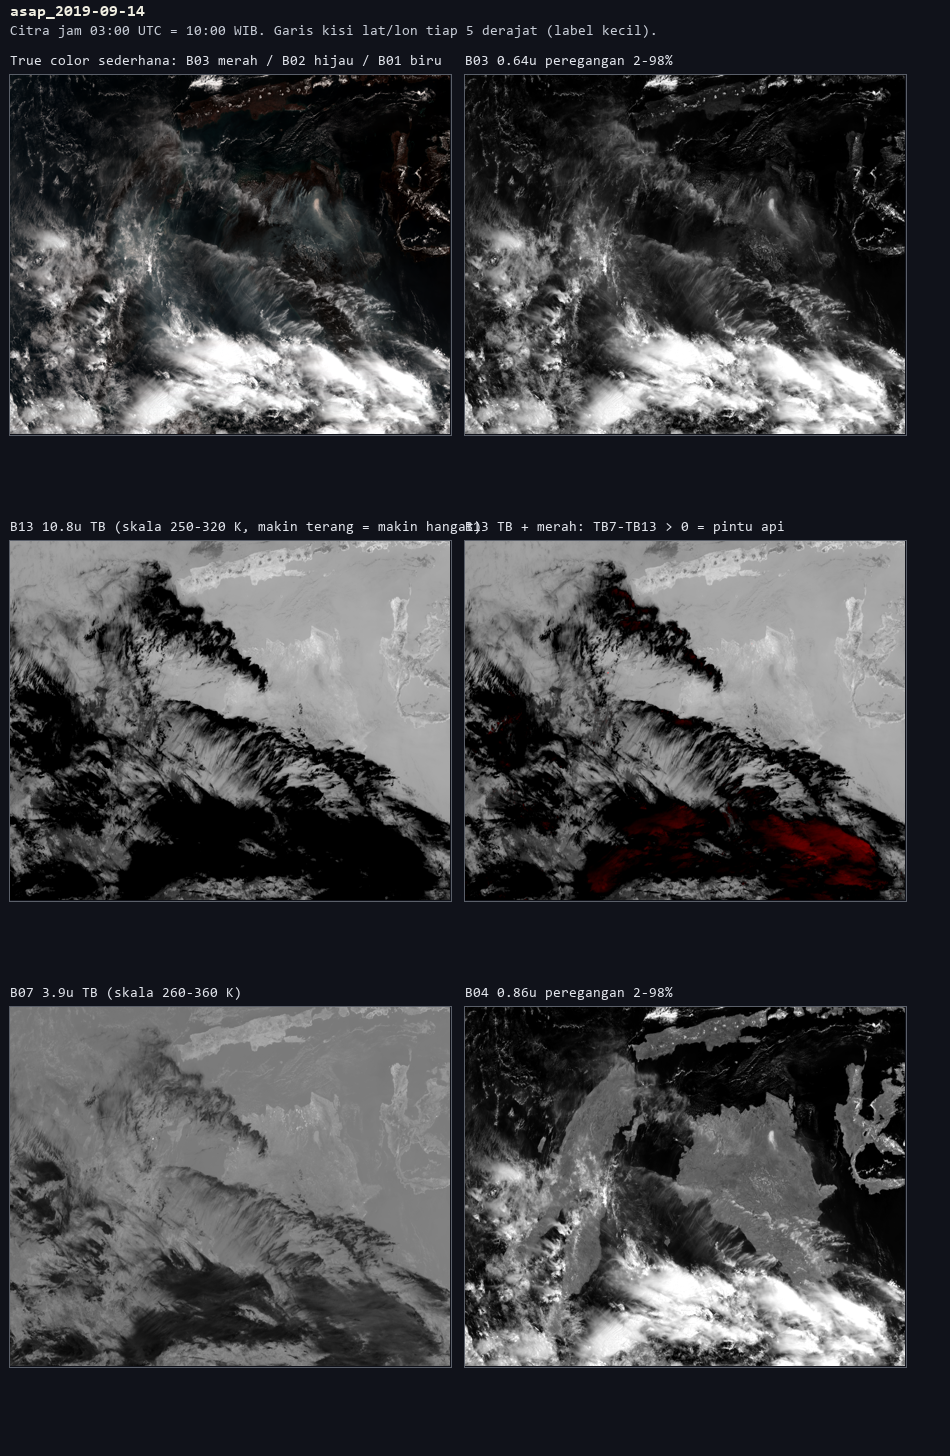
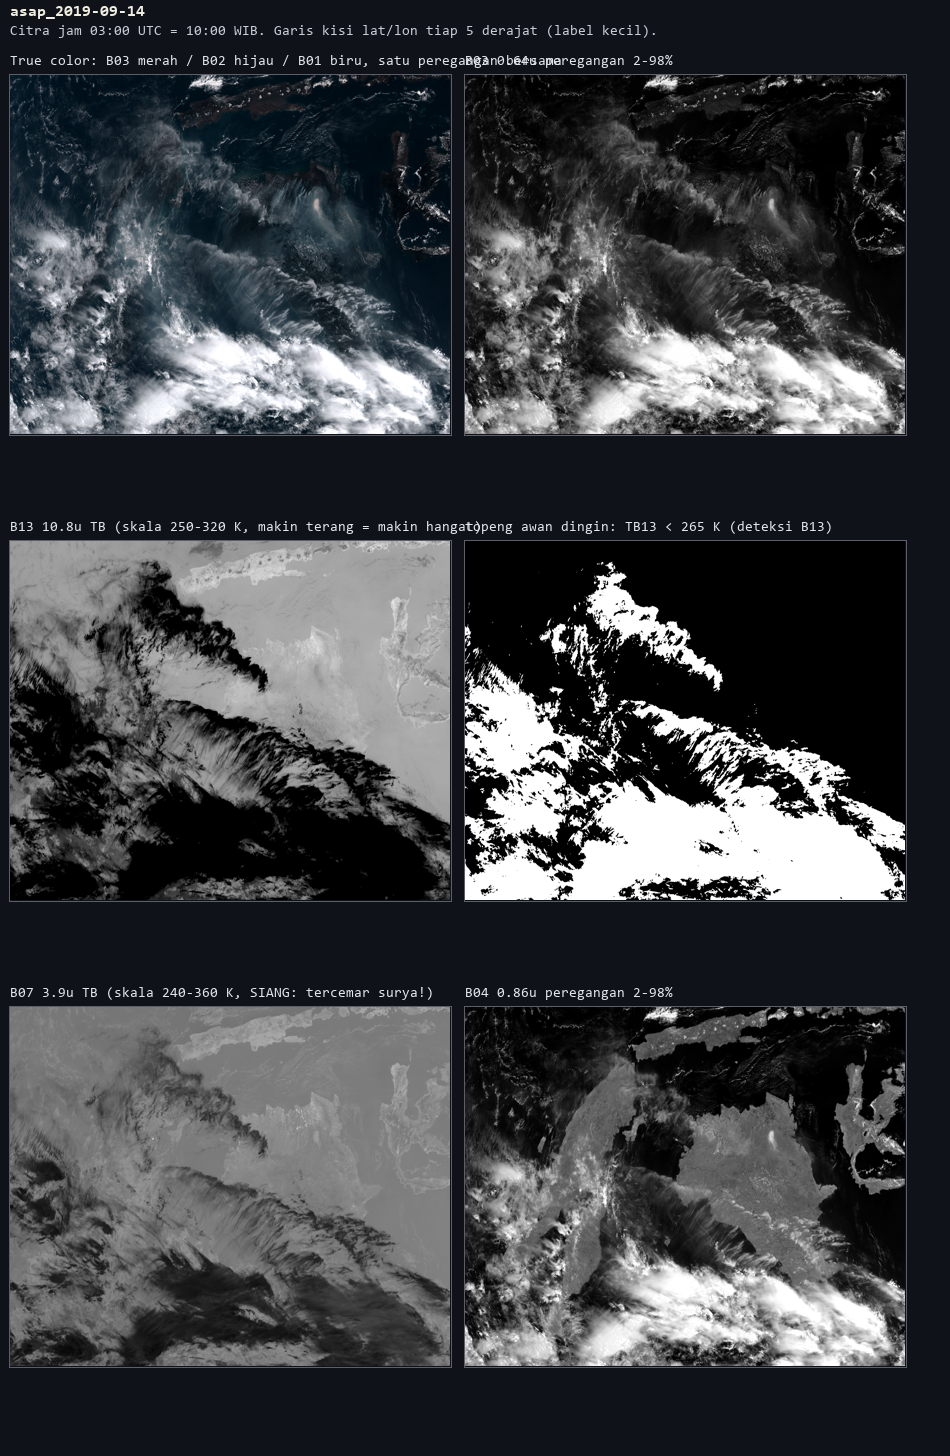
fix: kisi komposit kotak memakai geometri grid target

diff --git a/pipeline/kotak_fm1.py b/pipeline/kotak_fm1.py
@@ -117,22 +117,25 @@ def render_kotak(label, folder, nm_kotak):
     th = max(bands[b][1].shape[0] for b in vis)
     tc = max(bands[b][1].shape[1] for b in vis)
     def ke_grid(item):
-        bx, arr = item[2], item[1]
+        bx, arr, binfo = item[2], item[1], item[0]
         if arr.shape == (th, tc):
-            return np.asarray(arr, dtype=np.float64), bx
-        s = float(arr.shape[1]) / tc
+            return np.asarray(arr, dtype=np.float64), bx, binfo
+        s = float(arr.shape[1]) / float(tc)
         l0, _, c0, _ = bx
         bx2 = (int(round(l0 / s)), int(round(l0 / s + (th - 1))),
                int(round(c0 / s)), int(round(c0 / s + (tc - 1))))
-        return np.asarray(Image.fromarray(arr).resize((tc, th), Image.BILINEAR), dtype=np.float64), bx2
+        binfo2 = dict(binfo)
+        binfo2["cfac"] = binfo["cfac"] / s   # geometri pada grid target hasil rescale
+        return np.asarray(Image.fromarray(arr).resize((tc, th), Image.BILINEAR), dtype=np.float64), bx2, binfo2
     chs = {b: ke_grid(bands[b]) for b in vis}
     komposit = None
     if 1 in chs and 2 in chs and 3 in chs:
-        ch1, bx1 = chs[1]; ch2, _ = chs[2]; ch3, _ = chs[3]
+        ch1, bx1, in1 = chs[1]; ch2, _, _ = chs[2]; ch3, _, _ = chs[3]
         semua = np.concatenate([ch1.ravel(), ch2.ravel(), ch3.ravel()])
         lo, hi = np.nanpercentile(semua, 2), np.nanpercentile(semua, 98)
         komposit = (np.clip((np.dstack([ch3, ch2, ch1]) - lo) / (hi - lo), 0, 1) * 255).astype(np.uint8)
-        info_k, box_k = bands[1][0], bx1
+        b_finest = max(vis, key=lambda b: bands[b][1].shape[1])
+        info_k, box_k = chs[b_finest][2], chs[b_finest][1]
     elif 3 in chs:
         komposit = (selip(bands[3][1]) * 255).astype(np.uint8)
         info_k, box_k = bands[3][0], bands[3][2]

diff --git a/Changelog.md b/Changelog.md
@@ -9,6 +9,8 @@ Keputusan penting diberi awalan `KEPUTUSAN:`. Jam diambil dari jam sistem.
 
 ## Entri
 
+2026-10-23 20:40 WIB (13:40 UTC) | Data dan citra | P2 | Perbaikan kisi kotak: panel komposit 2026 memakai geometri band asal (B01) bukan grid target (B03 0,5 km) sehingga kisi/pantai tidak digambar; kini geometri diambil dari band dengan grid target (cfac di-skala saat rescale). 8 kotak + 4 panel penuh ter-render tanpa GAGAL. Yang terlihat (kerja, bukan penilaian): kotak Kalteng asap 14-09 menunjukkan lapisan asap abu-abu keputihan di sepanjang Kalimantan Tengah-selatan pada B03/komposit dengan topeng awan dingin hanya di pojok barat-laut; kotak Riau 2026-10-23 kini berkisi utuh | pipeline/kotak_fm1.py | penilaian visual pengguna menunggu; B02 bersih masih diunduh
+
 2026-10-23 20:15 WIB (13:15 UTC) | Data dan citra | P2 | Renderer kotak Riau & Kalteng jadi (`pipeline/kotak_fm1.py`): potong lat/lon via `inv_px` (kebalikan `buat_px`, geodetik→geosentrik), pantai Natural Earth 10 m (`data/coast_ne10m.geojson`, salinan `_ne_coast.geojson`), kisi kuning 1 derajat, topeng awan dingin TB13<265 K [Usulan desain], komposit B03/B02/B01 peregangan bersama, pilihan resolusi per band saat folder campuran R05+R10. KEPUTUSAN: pantai sejajar daratan pada kotak asap = validasi silang eksternal geometri geolokasi pertama (bukan cuma konsistensi internal). Lapisan api tanda merah DIHAPUS dari panel penuh; klaim siang kontaminasi surya 3,9 µm terverifikasi [Literatur CIMSS "Fog and Low Cloud Detection at Night": "during the day... much more radiation at 3.9 µm is reflected and scattered... cloud appears warmer"]. Produk titik panas AHI-L2WLF TIDAK tersedia di AWS bucket noaa-himawari8 (prefiks hanya L1b + Clouds/ISatSS/RainfallRate/SST/Winds) dan di P-Tree butuh registrasi + jendela unduhan 30 hari [Literatur MDPI 15(6):1541]; titik panas 2019 butuh keputusan pengguna (registrasi P-Tree / FIRMS MAP_KEY / alternatif) | pipeline/olah_himawari_fm1.py, pipeline/kotak_fm1.py, data/coast_ne10m.geojson | render 8 kotak + 4 panel penuh berjalan di latar; butir 4 kontrol bersih menunggu unduhan B01/B02 tuntas
 
 2026-10-23 19:57 WIB (12:57 UTC) | Data dan citra | P2 | TEMUAN: (1) komposit 2026-10-23 tampil cyan/merah karena dua cacat: kanal di-stretch terpisah (selip tiap band, ketidakseimbangan warna) dan penggabungan dstack mengambil jumlah-baris terkecil tanpa penyetaraan - B03 grid R05 (0,5 km, 4075 baris) dipotong memakai baris atas saja lawan B01/B02 grid R10 (1 km, 2038 baris) yang menutup rentang penuh, sehingga kanal merah menunjukkan area paruh atas saja - dibetulkan: setiap kanal disetarakan ke grid paling tajam dulu (BILINEAR), satu peregangan bersama (par-2/98% gabungan) - saya tak menyebarkan warna; sisa: rambut cyan/merah tipis di tepi awan (parallax sub-piksel, B03 0,5km lawan B01/B02 1km) (2) permintaan pengguna: tahap 2 BARU BUKAN; kerja dulu: aturan api T7-T13 dihapus (aman tukar tunggu), kotak Riau & Kalimantan Tengah resolusi asli + pantai + topeng awan dingin B13, kontrol bersih komposit B01-B03 lengkap | pipeline/olah_himawari_fm1.py | lanjut butir 2-4
